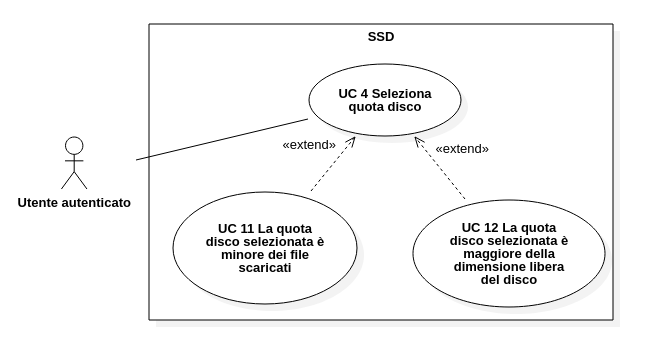
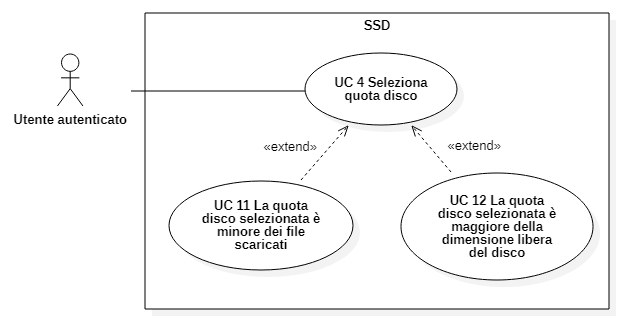
Sistemato immagine UC4

diff --git a/Esterni/AnalisiDeiRequisiti/components/uc/uc4.tex b/Esterni/AnalisiDeiRequisiti/components/uc/uc4.tex
@@ -1,7 +1,7 @@
 \subsection{UC4 - Seleziona quota disco}
 \begin{figure}[H]
     \centering
-    \includegraphics[scale = 0.6]{components/img/UC4.png}
+    \includegraphics[scale = 0.7]{components/img/UC4.png}
     \caption{UC4 - Seleziona quota disco}
 \end{figure}
 \begin{itemize}
